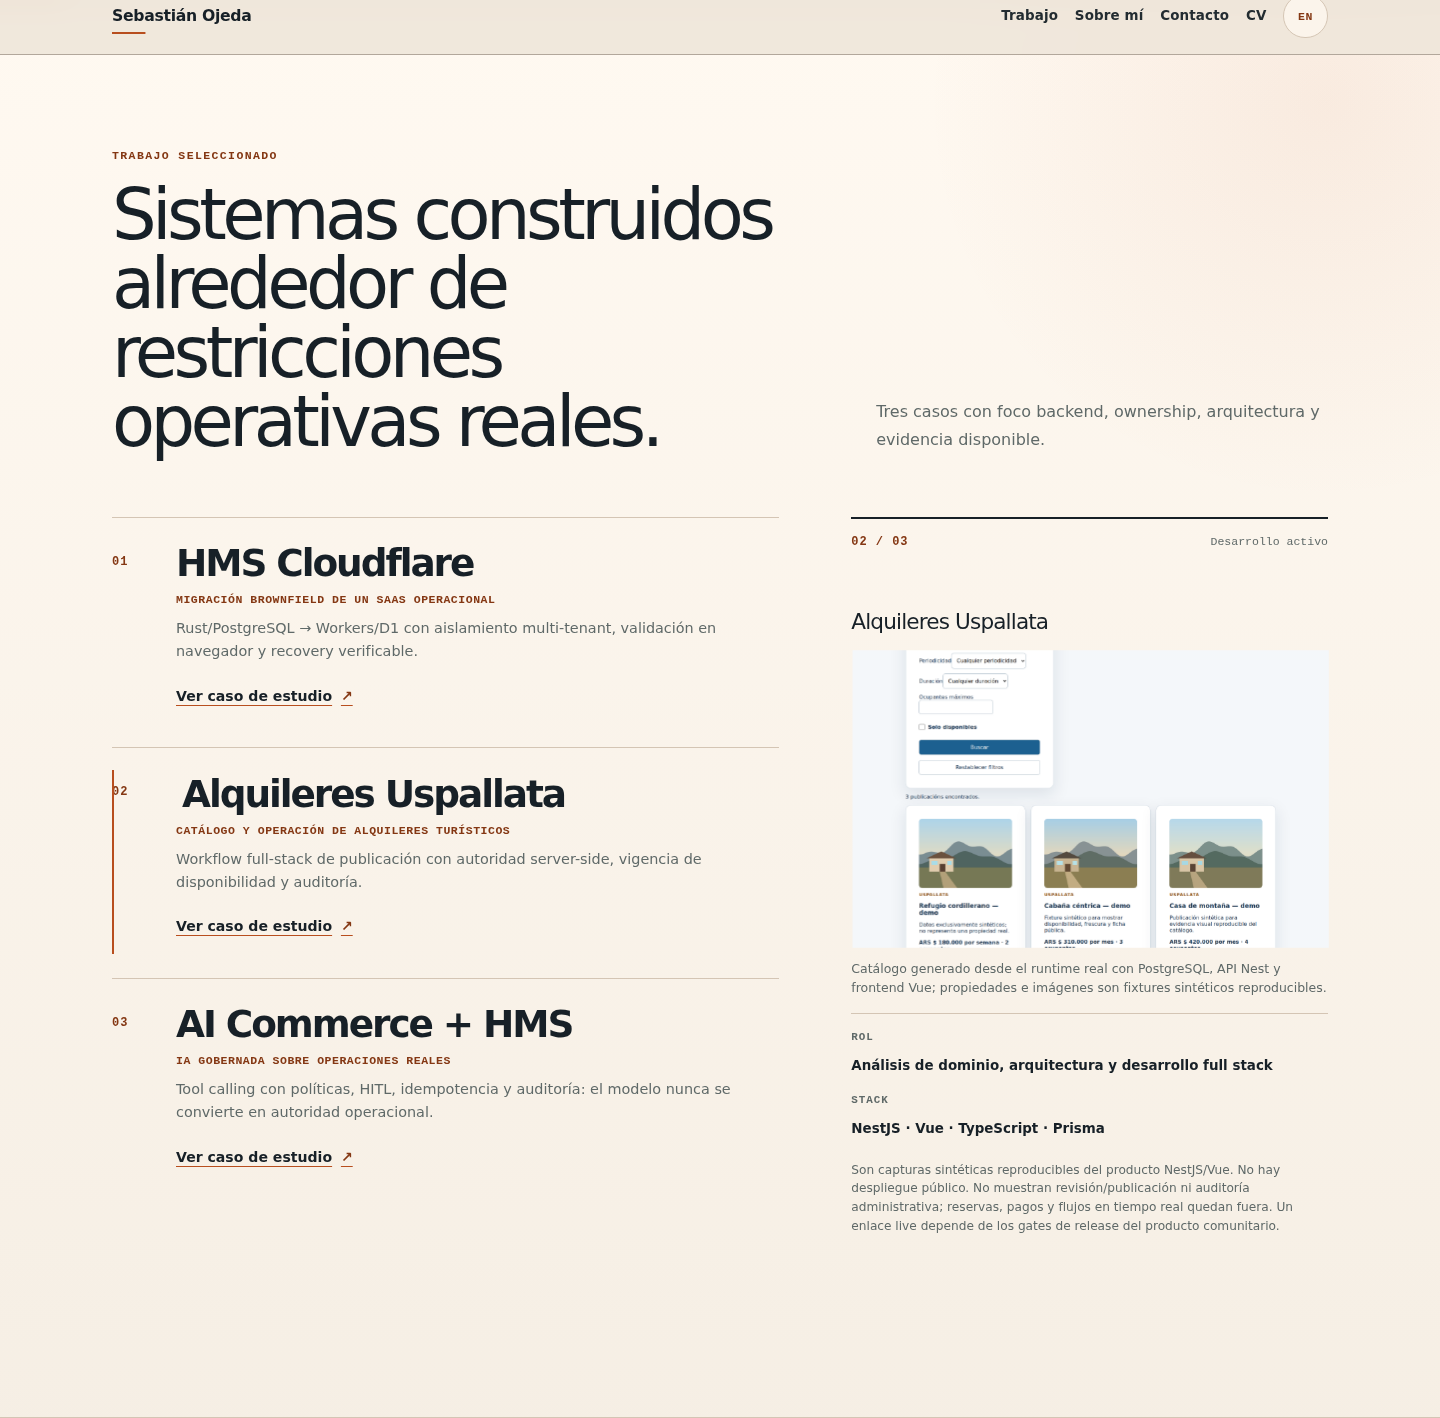
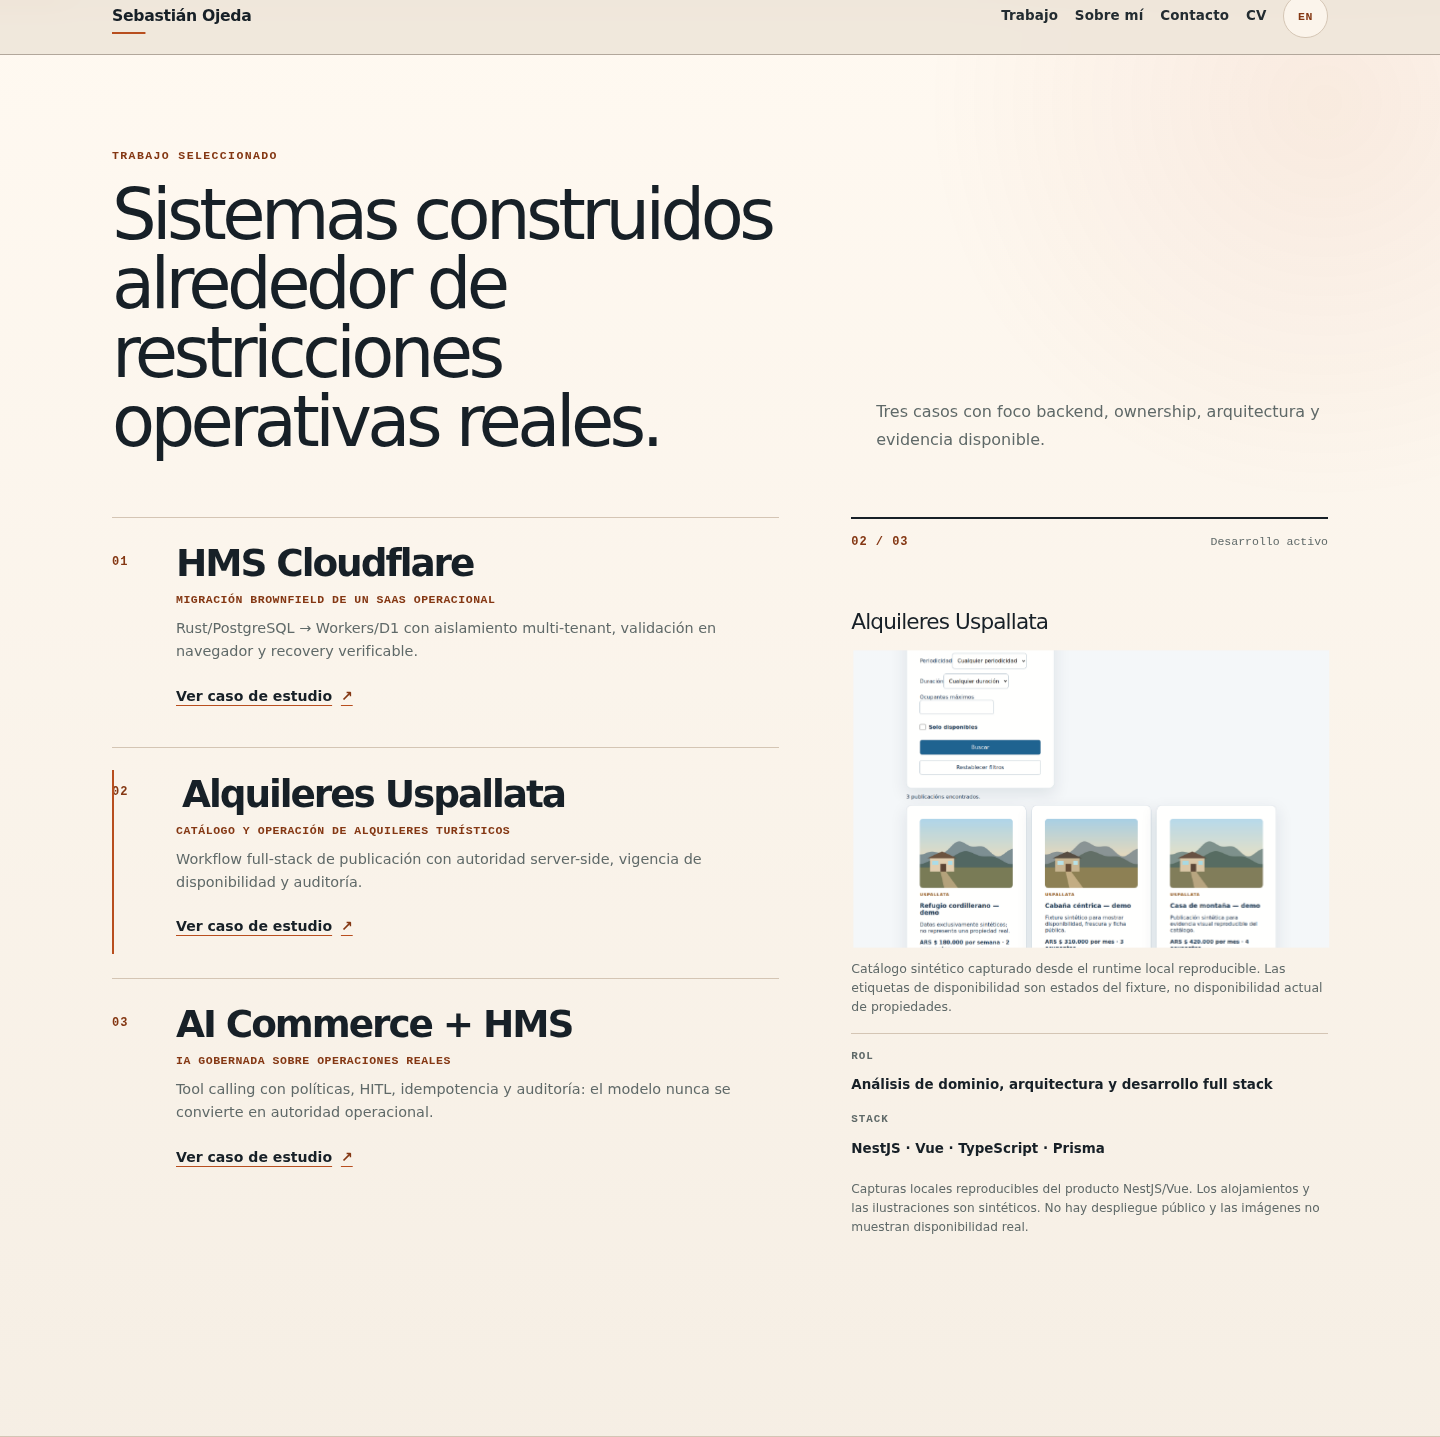
fix(issue-124): reconcile Alquileres static proof

diff --git a/tests/browser/issue-116-i5-interaction.spec.ts b/tests/browser/issue-116-i5-interaction.spec.ts
@@ -25,7 +25,7 @@ test('I5 hover and keyboard focus update approved evidence together without movi
   await expect(panel.locator('[data-evidence-title]')).toHaveText('Alquileres Uspallata');
   await expect(panel.locator('[data-evidence-image]')).toHaveAttribute('src', /catalog-results-desktop-1440x1200\.png$/);
   await expect(panel.locator('[data-evidence-image]')).toHaveJSProperty('naturalWidth', 1440);
-  await expect(panel.locator('[data-evidence-caption]')).toContainText('reproducible synthetic fixtures');
+  await expect(panel.locator('[data-evidence-caption]')).toContainText('Synthetic catalog captured');
   await expect(panel.locator('[data-evidence-limitation]')).toContainText('no public deployment');
   const frameAfter = await frame.evaluate((element) => ({ layoutWidth: (element as HTMLElement).offsetWidth, layoutHeight: (element as HTMLElement).offsetHeight }));
   expect(frameAfter.layoutWidth).toBe(frameBefore.layoutWidth);
@@ -58,7 +58,7 @@ test('I5 hover and keyboard focus update approved evidence together without movi
   await spanishRentalRow.hover();
   await expect(spanishRentalRow).toHaveAttribute('data-active', 'true');
   await expect(page.locator('[data-selected-evidence] [data-evidence-title]')).toHaveText('Alquileres Uspallata');
-  await expect(page.locator('[data-selected-evidence] [data-evidence-caption]')).toContainText('reproducibles');
+  await expect(page.locator('[data-selected-evidence] [data-evidence-caption]')).toContainText('runtime local reproducible');
   await expect(page.locator('[data-selected-evidence] [data-evidence-limitation]')).toContainText(/no hay despliegue público/i);
   await new AxeBuilder({ page }).withTags(['wcag2a', 'wcag2aa', 'wcag21a', 'wcag21aa', 'wcag22aa']).analyze().then((result) => {
     expect(result.violations, JSON.stringify(result.violations, null, 2)).toEqual([]);
@@ -97,7 +97,7 @@ test('I5 failed image loading presents an honest fallback while preserving the c
   const panel = page.locator('[data-selected-evidence]');
   await expect(panel.locator('[data-evidence-empty]')).toBeVisible();
   await expect(panel.locator('[data-evidence-empty]')).toContainText('image preview is unavailable');
-  await expect(panel.locator('[data-evidence-limitation]')).toContainText('reproducible synthetic captures');
+  await expect(panel.locator('[data-evidence-limitation]')).toContainText('Reproducible local captures');
   await expect(row.locator('a.selected-work-row')).toHaveAttribute('href', '/projects/alquileres-uspa/');
   await mkdir('artifacts/visual/issue-116-i5', { recursive: true });
   await section.screenshot({ path: 'artifacts/visual/issue-116-i5/selected-work-image-error-1440.png' });

diff --git a/src/data/projectMedia.ts b/src/data/projectMedia.ts
@@ -156,8 +156,8 @@ export const projectMedia = {
         en: 'Alquileres Uspallata public catalog with demo listings, synthetic images, prices, availability, and detail access.',
       },
       caption: {
-        es: 'Catálogo generado desde el runtime real con PostgreSQL, API Nest y frontend Vue; propiedades e imágenes son fixtures sintéticos reproducibles.',
-        en: 'Catalog generated from the real runtime with PostgreSQL, Nest API, and Vue frontend; properties and images are reproducible synthetic fixtures.',
+        es: 'Catálogo sintético capturado desde el runtime local reproducible. Las etiquetas de disponibilidad son estados del fixture, no disponibilidad actual de propiedades.',
+        en: 'Synthetic catalog captured from the reproducible local runtime. Availability labels are fixture states, not current property availability.',
       },
       width: 1440,
       height: 1200,
@@ -171,8 +171,8 @@ export const projectMedia = {
           en: 'Public detail page for a demo Alquileres Uspallata property with image, price, capacity, availability, and listing information.',
         },
         caption: {
-          es: 'Ficha capturada desde el runtime reproducible; la propiedad, el contenido y la ilustración son datos sintéticos de demostración.',
-          en: 'Detail page captured from the reproducible runtime; the property, content, and illustration are synthetic demo data.',
+          es: 'Detalle sintético de una propiedad en el runtime local; no es una publicación real ni disponibilidad actual.',
+          en: 'Synthetic listing detail from the local runtime; it is not a real property listing or current availability.',
         },
         width: 1440,
         height: 1200,
@@ -185,8 +185,8 @@ export const projectMedia = {
           en: 'Alquileres Uspallata mobile catalog showing a demo listing with its image contained inside the responsive card.',
         },
         caption: {
-          es: 'Validación mobile del catálogo real con datos sintéticos; confirma el comportamiento responsive de imagen, contenido y disponibilidad.',
-          en: 'Mobile validation of the real catalog with synthetic data; it confirms responsive image, content, and availability behavior.',
+          es: 'Captura de catálogo sintético en 390 × 844. Documenta solo esta composición mobile; no acredita cobertura touch/accesibilidad en todos los dispositivos.',
+          en: 'Synthetic catalog capture at 390 × 844. It documents this mobile layout only; it does not establish touch/accessibility coverage for every device.',
         },
         width: 390,
         height: 844,

diff --git a/src/data/projectProofs.ts b/src/data/projectProofs.ts
@@ -69,13 +69,13 @@ export const projectProofs = {
     },
   },
   'alquileres-uspa': {
-    preferredProofMode: 'live-product',
+    preferredProofMode: 'visual-evidence',
     currentProofMode: 'visual-evidence',
-    proofReadiness: 'pending-external-gate',
+    proofReadiness: 'available',
     proofHref: verifiedPortfolioRoute('#gallery-alquileres-uspa'),
     proofProvenance: {
       sourceRepository: 'https://github.com/sjo1848/alquileres-uspa',
-      sourceCommit: '5bcde39e0ca8abd2d5d2e0a9e9c90c5b3bf47a51',
+      sourceCommit: '267c531f3e3d5869240894063d3a194fa1f9680b',
       dataClassification: 'synthetic-deterministic',
       artifacts: [
[1 lines of base64/hex data omitted]
@@ -84,8 +84,8 @@ export const projectProofs = {
       ],
     },
     proofLimitations: {
-      en: 'These are reproducible synthetic captures of the NestJS/Vue product. There is no public deployment. Review/publication and administrative-audit workflows are not shown; reservations, payments and real-time flows are out of scope. A live link depends on the community product’s own release gates.',
-      es: 'Son capturas sintéticas reproducibles del producto NestJS/Vue. No hay despliegue público. No muestran revisión/publicación ni auditoría administrativa; reservas, pagos y flujos en tiempo real quedan fuera. Un enlace live depende de los gates de release del producto comunitario.',
+      en: 'Reproducible local captures from the NestJS/Vue product. Listings and illustrations are synthetic. There is no public deployment, and the images do not show real availability.',
+      es: 'Capturas locales reproducibles del producto NestJS/Vue. Los alojamientos y las ilustraciones son sintéticos. No hay despliegue público y las imágenes no muestran disponibilidad real.',
     },
   },
   'ai-commerce-platform': {

diff --git a/tests/browser/project-proof-model.spec.ts b/tests/browser/project-proof-model.spec.ts
@@ -70,6 +70,20 @@ test('HMS recruiter evidence fails closed to one canonical local artifact', asyn
     .toContain('HMS media vendoring disabled: exact source capture provenance is not verified.');
 });
 
+test('Alquileres keeps static synthetic evidence as the approved available proof mode', async ({}, testInfo) => {
+  test.skip(testInfo.project.name !== 'chromium');
+  const proof = projectProofs['alquileres-uspa'];
+  expect(proof.preferredProofMode).toBe('visual-evidence');
+  expect(proof.currentProofMode).toBe('visual-evidence');
+  expect(proof.proofReadiness).toBe('available');
+  expect(proof.proofHref).toEqual({ en: '#gallery-alquileres-uspa', es: '#gallery-alquileres-uspa' });
+  expect(proof.proofProvenance.sourceCommit).toBe('267c531f3e3d5869240894063d3a194fa1f9680b');
+  expect(proof.proofProvenance.artifacts).toHaveLength(3);
+  const vendorScript = readFileSync(path.join(process.cwd(), 'scripts/vendor-project-media.sh'), 'utf8');
+  expect(vendorScript).toContain('ALQUILERES_COMMIT=\"267c531f3e3d5869240894063d3a194fa1f9680b\"');
+  expect(vendorScript).not.toContain('5bcde39e0ca8abd2d5d2e0a9e9c90c5b3bf47a51');
+});
+
 test('UspaYa evidence is fail-closed and its case/repository remain available', async ({}, testInfo) => {
   test.skip(testInfo.project.name !== 'chromium');
   const proof = projectProofs.uspaya;

diff --git a/src/data/homepageProjectCovers.ts b/src/data/homepageProjectCovers.ts
@@ -30,8 +30,8 @@ export const homepageProjectMedia = {
         en: 'Alquileres Uspallata public catalog with demo listings, synthetic images, prices, availability, and detail access.',
       },
       caption: {
-        es: 'Catálogo generado desde el runtime real con PostgreSQL, API Nest y frontend Vue; propiedades e imágenes son fixtures sintéticos reproducibles.',
-        en: 'Catalog generated from the real runtime with PostgreSQL, Nest API, and Vue frontend; properties and images are reproducible synthetic fixtures.',
+        es: 'Catálogo sintético capturado desde el runtime local reproducible. Las etiquetas de disponibilidad son estados del fixture, no disponibilidad actual de propiedades.',
+        en: 'Synthetic catalog captured from the reproducible local runtime. Availability labels are fixture states, not current property availability.',
       },
       width: 1440,
       height: 1200,

diff --git a/tests/browser/case-study-quick-scan.spec.ts b/tests/browser/case-study-quick-scan.spec.ts
@@ -16,8 +16,8 @@ const routes = [
     esStatus: 'Migración validada técnicamente; aceptación separada',
     enEvidence: /Local automated and browser regressions/,
     esEvidence: /regresiones automatizadas y de navegador locales/,
-    enLimits: /Remote Product Acceptance/i,
-    esLimits: /aceptación remota/,
+    enLimits: /They do not show remote Product Acceptance or a production release/i,
+    esLimits: /No muestran Product Acceptance remoto ni un release de producción/i,
     proofAnchor: { en: '#visual-evidence', es: '#evidencia-visual' },
   },
   {
